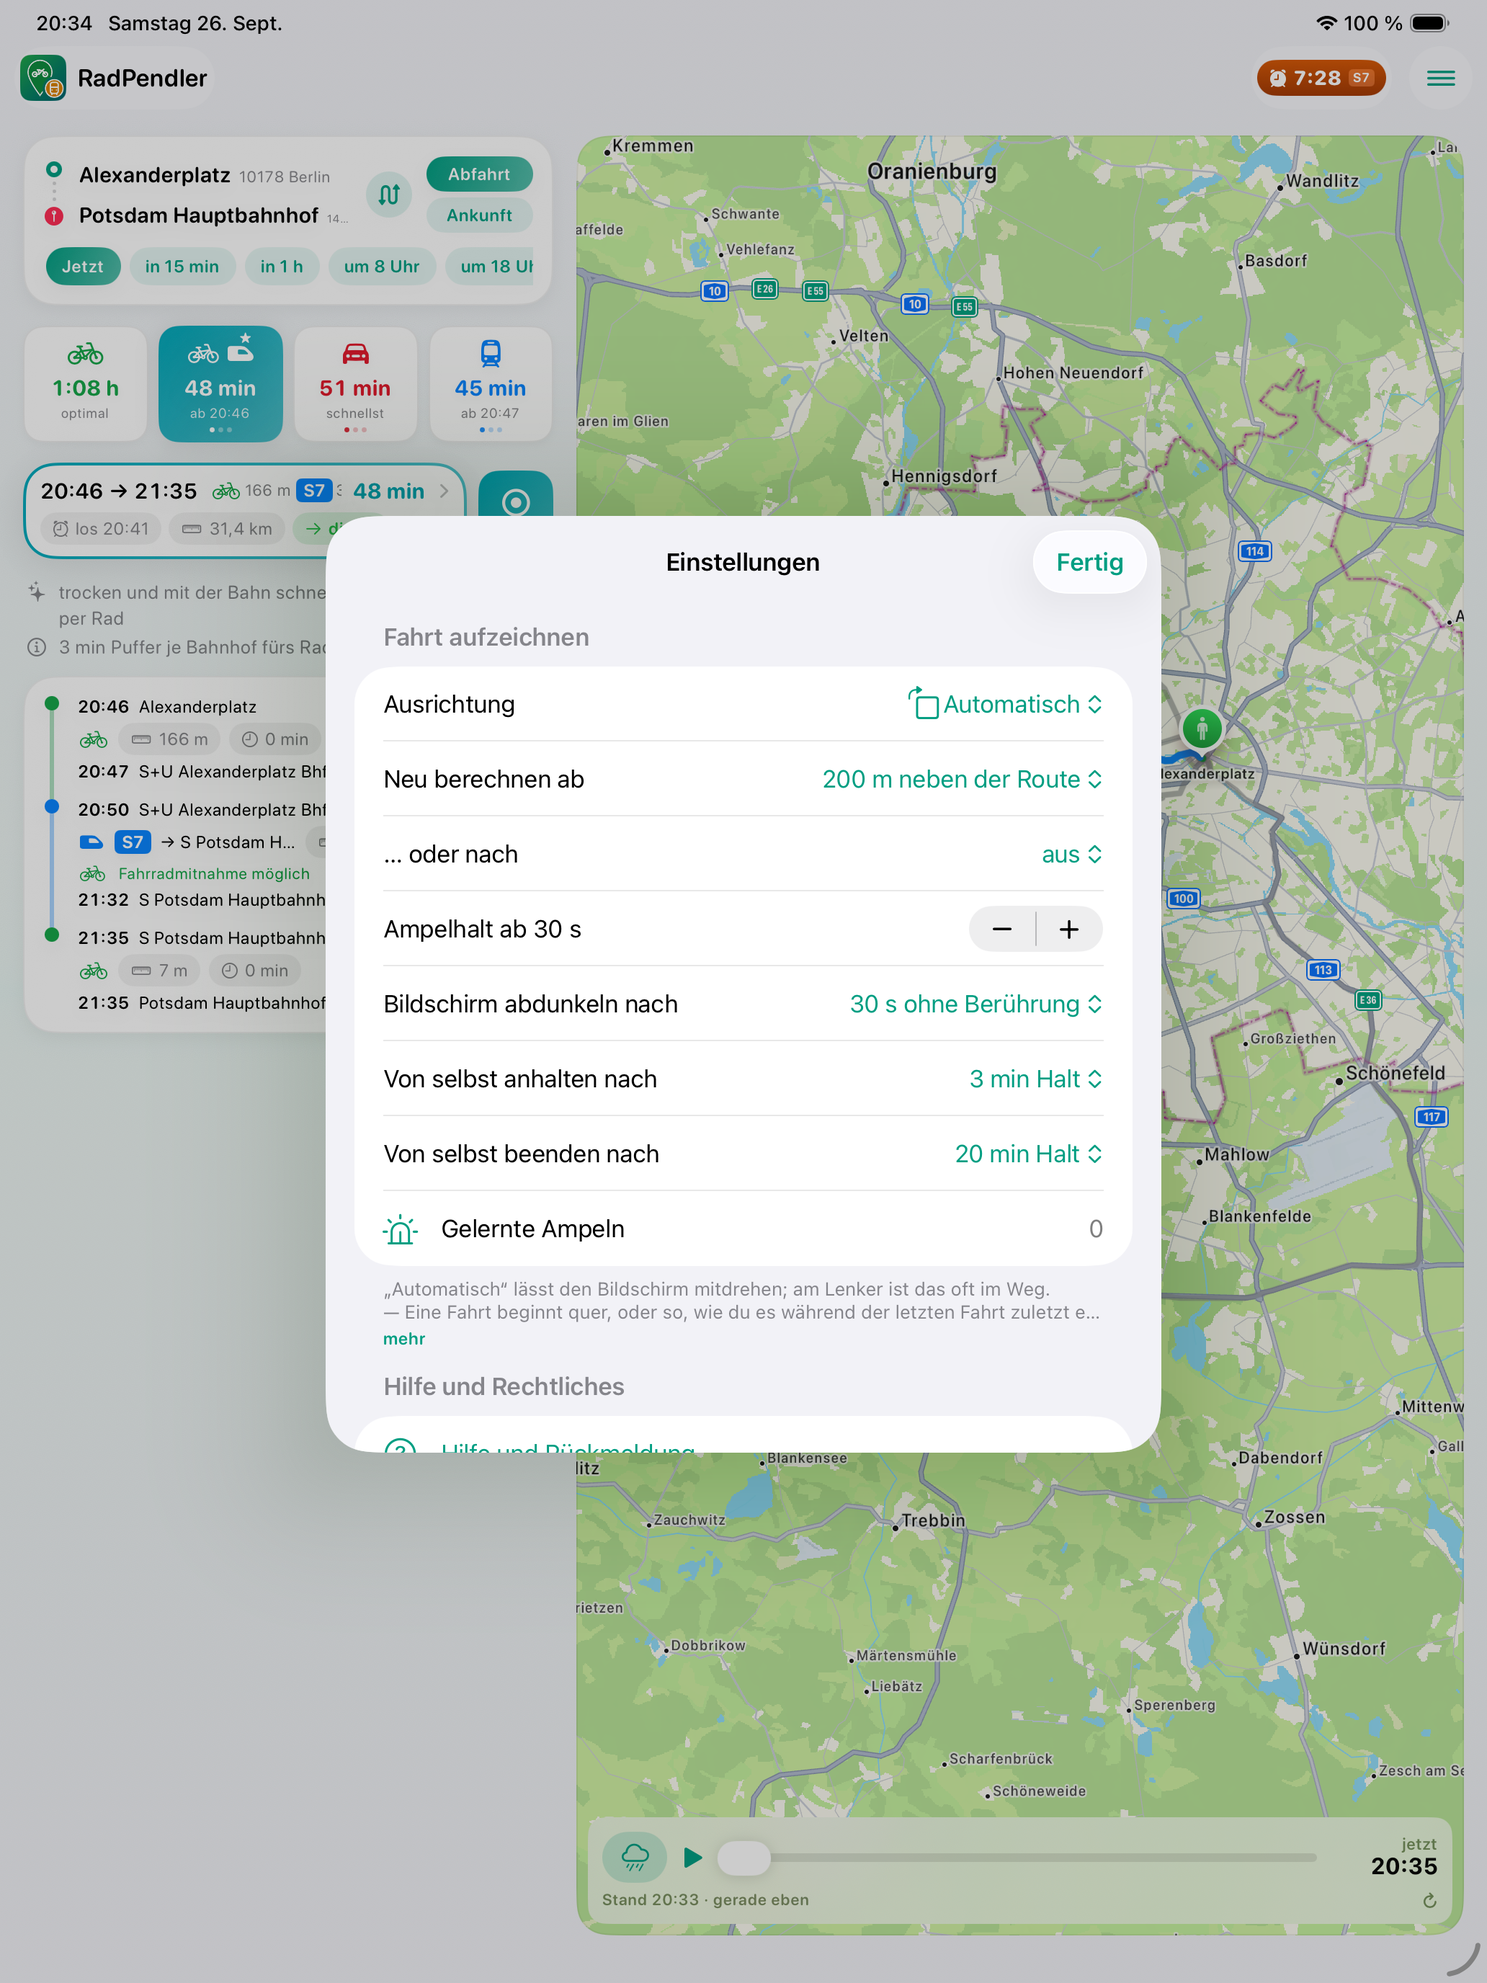
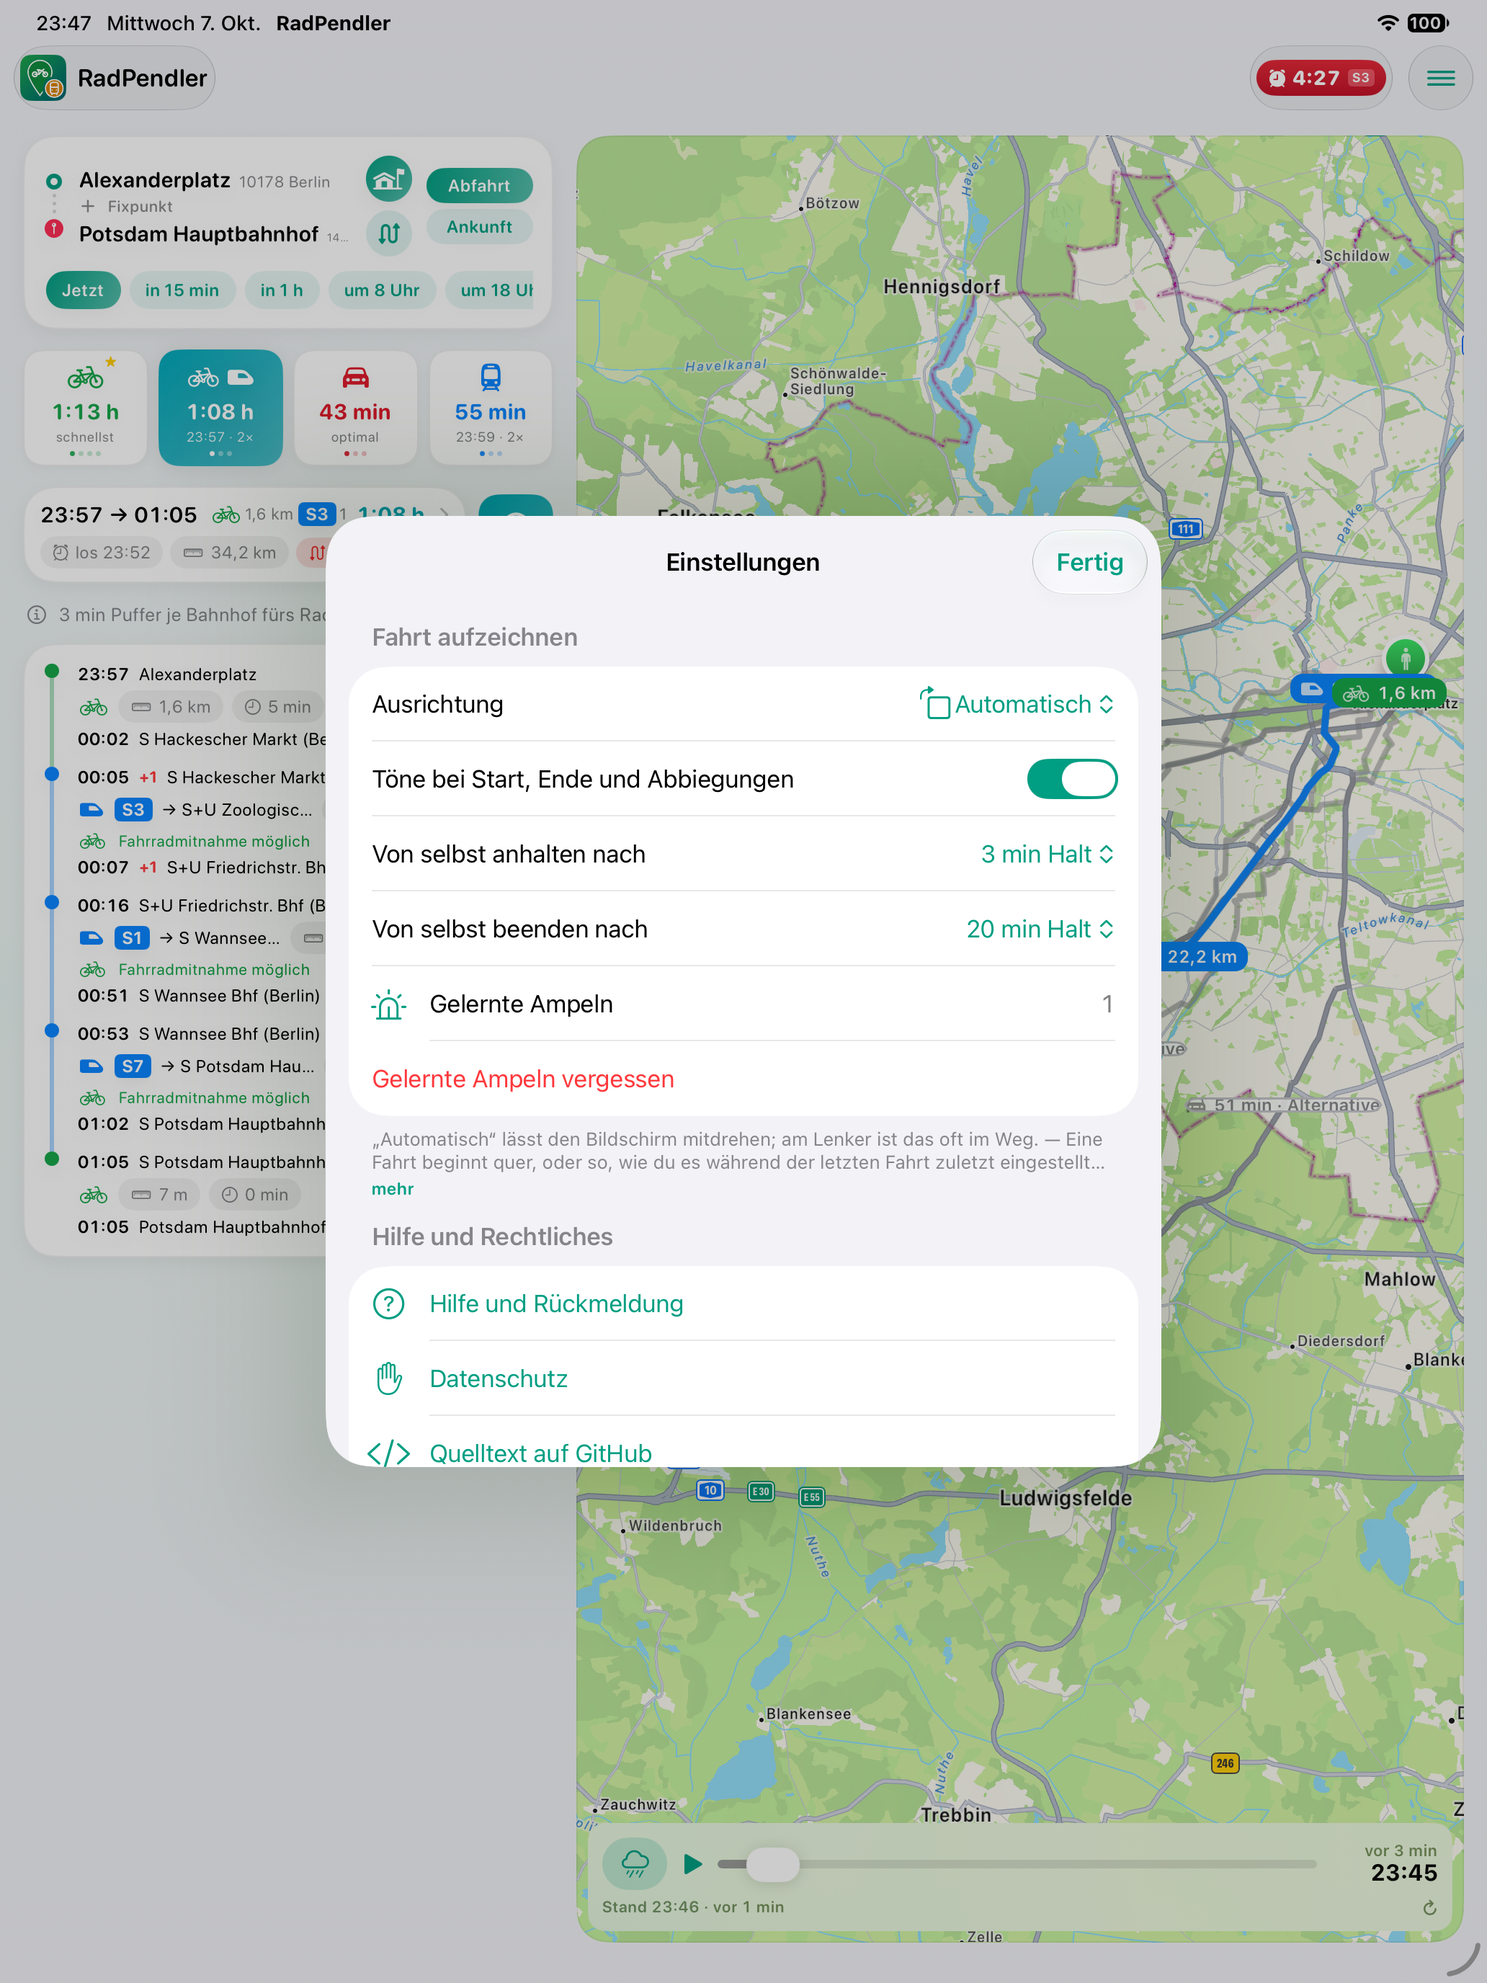
Store: Was ist neu für 1.17 (DE+EN), Beschreibung, Screenshots iPhone und iPad neu
Vier Radlinien in Beschreibung und Bildern. Die Aufnahmen warten jetzt, bis
alle vier Kästen stehen, zeigen eine Linie mit Namen und fahren an der Linie
entlang, die sie aufzeichnen. Der Kasten nennt VoiceOver auch seine Unterzeile.

Claude-Session: https://claude.ai/code/session_01W7X6DqDkarXtPKmRV2Q2C8

diff --git a/RadPendlerUITests/ScreenshotTests.swift b/RadPendlerUITests/ScreenshotTests.swift
@@ -25,7 +25,15 @@ final class ScreenshotTests: XCTestCase {
 
         // The bike box: the map then draws the cycle route with its junctions.
         if tap(button: "Fahrrad:") {
-            sleep(8)
+            sleep(4)
+            // Ein Tipp auf den gewählten Kasten schaltet zur nächsten Linie —
+            // und das kann eine „Alternative" sein, ein Weg ohne Rolle. Ins
+            // Schaufenster gehört eine mit Namen: weiterschalten, bis eine dasteht.
+            for _ in 0..<4 where bikeBoxShows("Alternative") {
+                tap(button: "Fahrrad:")
+                sleep(2)
+            }
+            sleep(6)
             keep("rad")
         }
 
@@ -94,7 +102,15 @@ final class ScreenshotTests: XCTestCase {
         // Die reine Radfahrt, nicht Rad + Bahn: sonst steht neben dem
         // gefahrenen Schnitt der Schnitt einer Fahrt, in der ein Zug sitzt —
         // neununddreißig Kilometer in der Stunde, auf einem Fahrrad.
-        if tap(button: "Fahrrad:") { sleep(6) }
+        //
+        // Lang drücken springt auf die erste Linie des Kastens zurück — die
+        // mit der frühesten Ankunft. An ihr entlang läuft das Ortungsskript
+        // (`appstore/metadata.md`, „Neu aufnehmen"); jede andere läge nach
+        // sechzig Metern daneben, und quer über dem Bild stünde ein rotes
+        // „151 m neben der Route".
+        if tap(button: "Fahrrad:") { sleep(3) }
+        let box = app.buttons.matching(NSPredicate(format: "label BEGINSWITH %@", "Fahrrad:")).firstMatch
+        if box.exists { box.press(forDuration: 1.2); sleep(5) }
         let start = app.buttons["Fahrt aufzeichnen"]
         guard start.waitForExistence(timeout: 15), start.isHittable else { return }
         start.tap()
@@ -102,7 +118,11 @@ final class ScreenshotTests: XCTestCase {
         // und lang genug, dass die App eine Abweichung vom Weg, die nur dem
         // gerade laufenden Ortungsskript geschuldet ist, selbst wieder
         // eingefangen hat.
-        sleep(80)
+        sleep(70)
+        // Steht das rote Band trotzdem da, plant die App gleich neu — darauf
+        // warten, statt es zu fotografieren.
+        let offRoute = app.staticTexts.matching(NSPredicate(format: "label CONTAINS %@", "neben der Route")).firstMatch
+        for _ in 0..<12 where offRoute.exists { sleep(10) }
         keep("fahrtmodus")
         guard app.buttons["Fahrt beenden"].waitForExistence(timeout: 5) else { return }
         app.buttons["Fahrt beenden"].tap()
@@ -118,7 +138,12 @@ final class ScreenshotTests: XCTestCase {
     private func waitForPlan() {
         let chip = app.staticTexts.matching(NSPredicate(format: "label BEGINSWITH %@", "los ")).firstMatch
         _ = chip.waitForExistence(timeout: 180)
-        sleep(6)
+        // Der Chip steht da, sobald das erste Verkehrsmittel geplant ist; die
+        // anderen Kästen zeigen dann noch „sucht …". Mit vier Radlinien dauert
+        // das länger als früher — die Hauptseite soll vollständig sein.
+        let searching = app.staticTexts.matching(NSPredicate(format: "label CONTAINS %@", "sucht")).firstMatch
+        for _ in 0..<24 where searching.exists { sleep(5) }
+        sleep(8)
     }
 
     @discardableResult
@@ -127,6 +152,11 @@ final class ScreenshotTests: XCTestCase {
         guard b.waitForExistence(timeout: 10), b.isHittable else { return false }
         b.tap()
         return true
+    }
+
+    private func bikeBoxShows(_ word: String) -> Bool {
+        let box = app.buttons.matching(NSPredicate(format: "label BEGINSWITH %@", "Fahrrad:")).firstMatch
+        return box.exists && ((box.value as? String) ?? "").contains(word)
     }
 
     private func keep(_ name: String) {

diff --git a/RadPendlerTests/BikeLiveTests.swift b/RadPendlerTests/BikeLiveTests.swift
@@ -5,14 +5,14 @@ import XCTest
 /// Fragt BRouter, Apple und Overpass wirklich. Aus, solange `BIKE_LIVE=1`
 /// nicht gesetzt ist:
 ///
-///     BIKE_LIVE=1 ./dev test
+///     TEST_RUNNER_BIKE_LIVE=1 ./dev test   (xcodebuild reicht nur Variablen mit diesem Vorsatz durch)
 final class BikeLiveTests: XCTestCase {
     func testLiveBikeVariants() async throws {
         try XCTSkipUnless(ProcessInfo.processInfo.environment["BIKE_LIVE"] == "1", "set BIKE_LIVE=1")
-        let from = Place(name: "Start", latitude: 52.4213, longitude: 13.1794)
-        let to = Place(name: "Ziel", latitude: 52.5210, longitude: 13.4130)
-        var s = PlanSettings()
-        s.bikeOptions = 3
+        // Dieselbe Strecke wie die Store-Aufnahmen: Alexanderplatz → Potsdam Hbf.
+        let from = Place(name: "Start", latitude: 52.5210, longitude: 13.4130)
+        let to = Place(name: "Ziel", latitude: 52.3914, longitude: 13.0672)
+        let s = PlanSettings()
         let req = PlanRequest(origin: from, destination: to, target: .departAfter(.now), settings: s)
         let options = try await TripPlanner().bikeOptions(req)
         for o in options {
@@ -20,7 +20,8 @@ final class BikeLiveTests: XCTestCase {
             print("LIVE bike:", o.bikeRoute?.source.label ?? "?", o.bikeRoute?.variants.map(\.rawValue) ?? [],
                   "\(Int(o.totalDistance)) m", "\(Int(o.duration / 60)) min",
                   "Ampeln \(st?.signals ?? -1)", "Querungen \(st?.crossings.count ?? -1)",
-                  "Hauptstr \(Int(st?.mainRoadMeters ?? -1)) m", o.note ?? "")
+                  "Hauptstr \(Int(st?.mainRoadMeters ?? -1)) m", o.note ?? "",
+                  "Start:", o.legs.first?.coordinates.prefix(160).map { String(format: "%.6f,%.6f", $0.latitude, $0.longitude) }.joined(separator: " ") ?? "")
         }
         XCTAssertGreaterThan(options.count, 1)
     }

diff --git a/RadPendler/Views/ModeStrip.swift b/RadPendler/Views/ModeStrip.swift
@@ -83,6 +83,9 @@ struct ModeStrip: View {
             UIImpactFeedbackGenerator(style: .rigid).impactOccurred()
         })
         .accessibilityLabel("\(mode.title): \(option.map { Fmt.duration($0.duration) } ?? "keine Verbindung")")
+        // Was unter der Zeit steht — „optimal", „ab 23:18 · 2×" —, auch für
+        // VoiceOver: bisher las es nur das Verkehrsmittel und die Dauer vor.
+        .accessibilityValue(caption(mode, option))
         .accessibilityHint(count > 1 ? L("Nochmal tippen für die nächste von %d Möglichkeiten, lang drücken für die beste", count) : "")
     }
 

diff --git a/appstore/metadata.md b/appstore/metadata.md
@@ -10,7 +10,26 @@ Fassung von Name, Untertitel, Keywords und Beschreibung steht am Ende und
 gehört in die Lokalisierung **Englisch (USA)**, damit die Seite in Stores
 außerhalb Deutschlands nicht leer aussieht.
 
-## Einreichungs-Checkliste (1.8.1, Build 45 — die einzureichende Fassung)
+## Einreichungs-Checkliste (1.17, Build 57 — die einzureichende Fassung)
+
+Was seit der 1.8.1-Liste dazugekommen ist; alles andere gilt wie dort.
+
+1. **Build 1.17 (57)** auswählen — liegt seit dem 07.10.2026 in TestFlight. Im Store steht 1.13.
+2. **Screenshots neu aufgenommen am 07.10.2026 mit Build 57** (iPhone und iPad): unter dem
+   Rad-Kasten stehen vier Wege, und in den Vorlieben vier Radrouten. Die Uhr-Bilder sind
+   unverändert.
+3. **Was ist neu** — Text unten, **für 1.17**, deutsch und englisch.
+4. **Beschreibung** deutsch und englisch: die Zeile „Fahrrad in vier Linien“ ersetzt die
+   Aufzählung mit „wenig Autos“ und „wenig Halts“ — in beide Sprachen neu einfügen.
+5. **Hinweis an die Prüfung**: der englische Text zu allen drei Hintergrundmoden aus der
+   1.8.1-Liste (Punkt 4, „Seit 07.10.2026 ausführlicher“).
+6. **Datenschutzseite vor dem Einreichen veröffentlichen**: `appstore/pages/radpendler-privacy/`
+   nach `deepskyplan.github.io/radpendler-privacy`. Die Fassung im Repository nennt die
+   Adressen an externe Dienste im ersten Absatz und beschreibt die Aufzeichnung.
+7. App-Datenschutz-Fragebogen unverändert. Übertragen wird nichts Neues: die Profile für
+   „ruhig“ und „optimal“ gehen als Profiltext an brouter.de, ohne Koordinaten oder Kennung.
+
+## Einreichungs-Checkliste (1.8.1, Build 45)
 
 Was seit 1.5 dazugekommen ist, steht in **fett**; alles andere gilt wie in der
 1.5-Liste darunter.
@@ -181,9 +200,10 @@ Gebaut für einen echten Arbeitsweg — und sie sagt, was sie nicht weiß, statt
 zu raten.
 
 DIE VIER WEGE
-• Fahrrad in Varianten: schnellst, kürzest, optimal, wenig Autos, wenig Halts. Aus
-  mehreren BRouter-Profilen und aus Apple Karten, bewertet nach Ampeln und
-  Hauptstraßen
+• Fahrrad in vier Linien: schnellst, kürzest, ruhig — über Fahrradstraßen und
+  Nebenstraßen — und optimal, die Mischung aus allen dreien. Aus mehreren
+  BRouter-Profilen, bewertet nach Ampeln, Hauptstraßen und Fahrradstraßen;
+  Kopfsteinpflaster meidet jede von ihnen
 • Rad + Bahn: die App sucht sich die Bahnhöfe selbst, radelt hin, fährt mit und
   radelt weiter
 • Auto: optimal, schnellst, kürzest oder wenig Ampeln — jede Linie, die
@@ -255,6 +275,60 @@ BRouter und Overpass auf OpenStreetMap-Daten (© OpenStreetMap-Mitwirkende,
 ODbL), Deutscher Wetterdienst und Open-Meteo.
 
 Alle Zeiten ohne Gewähr.
+```
+
+## Was ist neu (1.17)
+
+Für das Feld „Neue Funktionen“ der Version 1.17 (DE 1326, EN 1136 Zeichen, max
+4000). Deckt alles seit 1.13 ab — das ist die Fassung, die laut App Store Connect im
+Store steht (abgefragt am 07.10.2026); 1.14, 1.15 und 1.16 waren nur TestFlight.
+
+```
+• Vier Radlinien, jede mit einer klaren Frage: schnellst, kürzest, ruhig und
+  optimal. „ruhig“ führt über Fahrradstraßen und Nebenstraßen, weg von den
+  Autos; „optimal“ ist die Mischung aus allen dreien. Unter dem Rad-Kasten
+  stehen jetzt vier Wege statt drei. „wenig Autos“ heißt nun „ruhig“, „wenig
+  Halts“ entfällt.
+• Kopfsteinpflaster meidet jede Radroute, immer. Den Schalter dafür gibt es
+  nicht mehr.
+• Wie viel Umweg ist dir die Ruhe wert? Unter Einstellungen → Verkehrsmittel
+  legst du mit „Für Ruhe höchstens“ fest, ob „optimal“ 5, 10 oder 15 % länger
+  dauern darf als die schnellste Linie, wenn sie dafür von der Hauptstraße
+  wegführt.
+• Auto: Die App lernt aus deinen aufgezeichneten Autofahrten, wie du im
+  Vergleich zu Apple Karten fährst, und rechnet die Fahrzeit damit — auf jeder
+  Strecke, nicht nur auf dem Arbeitsweg.
+• Ton beim Anhalten und Weiterfahren: zwei kurze Töne abwärts, wenn die
+  Aufzeichnung pausiert, zwei aufwärts, wenn sie weiterläuft.
+• Behoben: Auf der Autobahn fehlten Strecke und Linie, sobald du schneller als
+  108 km/h warst.
+• Behoben: Nach einer Fahrt, die sich selbst beendet hatte, zählten die
+  folgenden Fahrten keine Halte und keine Ampeln.
+• Behoben: Die Fahrtenliste sagt jetzt auch dann Bescheid, wenn iCloud die
+  Linie einer einzelnen Fahrt nicht angenommen hat.
+```
+
+English:
+
+```
+• Four bike lines, each answering one question: fastest, shortest, quiet and
+  balanced. “quiet” runs along cycle streets and side streets, away from the
+  cars; “balanced” is the mix of all three. The bike box now offers four ways
+  instead of three. “few cars” is now called “quiet”; “few stops” is gone.
+• Every bike route avoids cobblestones, always. The switch for it is gone.
+• How much of a detour is quiet worth to you? Under Settings → Modes,
+  “For quiet, at most” lets “balanced” take 5, 10 or 15 % longer than the
+  fastest line when that keeps it off the main road.
+• Car: the app learns from your recorded car trips how you drive compared to
+  Apple Maps and uses that for the travel time — on any route, not only your
+  commute.
+• A sound when recording pauses and resumes: two short tones down when it
+  pauses, two up when it continues.
+• Fixed: on the motorway, distance and track went missing above 108 km/h.
+• Fixed: after a ride that had ended by itself, the following rides counted no
+  stops and no traffic lights.
+• Fixed: the ride list now also tells you when iCloud did not accept the track
+  of a single ride.
 ```
 
 ## Was ist neu (1.10.2)
@@ -568,8 +642,8 @@ beiden Schächte annimmt, sind kurz; alles andere wird beim Hochladen abgelehnt:
 Ein 6,9″-Telefon (iPhone 17 Pro Max) nimmt mit 1320 × 2868 auf, und das steht
 **nicht** auf der Liste — der 6,5″-Satz muss aus einem 6,5″-Simulator kommen.
 
-Reihenfolge und der Bildtext, den jedes Bild tragen soll (Stand 26.09.2026,
-aufgenommen mit Build 40):
+Reihenfolge und der Bildtext, den jedes Bild tragen soll (Stand 07.10.2026,
+aufgenommen mit 1.17, Build 57):
 
 **iPhone** — acht Bilder
 
@@ -608,7 +682,9 @@ Die Aufnahmen macht `RadPendlerUITests/ScreenshotTests` — ein eigenes Schema
 App und hängt jedes Bild ans Testergebnis.
 
 ```sh
-# Adressen setzen, ohne je eine echte zu benutzen (die App startet leer):
+# Adressen setzen, ohne je eine echte zu benutzen (die App startet leer).
+# Erst die App installieren (build-for-testing, dann `simctl install`), dann
+# die Werte setzen, dann `test-without-building` — sonst liest die App sie nicht.
 hex() { python3 -c "import sys,json;print(json.dumps(json.loads(sys.argv[1]),ensure_ascii=False).encode().hex())" "$1"; }
 UDID=…   # 6,5″-Telefon oder iPad Pro 13″
 xcrun simctl spawn $UDID defaults write de.keese.radpendler origin -data \
@@ -621,11 +697,20 @@ xcrun simctl spawn $UDID defaults write de.keese.radpendler rideOrientationLock 
 xcrun simctl privacy $UDID grant location-always de.keese.radpendler
 
 # Die Aufnahme des Fahrtmodus braucht **Bewegung**, sonst stehen dort Nullen.
-# Die Punkte sind die ersten Meter der Radroute ab Alexanderplatz (BRouter);
-# 6 m/s sind 21,6 km/h. In zsh als Array, sonst wird daraus ein Argument.
-WP=(52.521027,13.412965 52.521011,13.412359 52.520720,13.412771 52.520675,13.412163
-    52.520097,13.411077 52.519663,13.410140 52.519404,13.409581 52.519052,13.408822
-    52.518829,13.408110 52.518590,13.407613 52.518364,13.407084 52.518039,13.406290)
+# Die Punkte sind die ersten anderthalb Kilometer der Linie, die der Test
+# aufzeichnet: die **erste** des Rad-Kastens (Langdruck), also die mit der
+# frühesten Ankunft — am 07.10.2026 die kürzeste. Die vier Linien trennen sich
+# nach 57 m; läuft das Skript an einer anderen entlang, steht ein rotes
+# „… neben der Route" quer über dem Bild. Nach einer Änderung an den Profilen
+# neu holen: `TEST_RUNNER_BIKE_LIVE=1` und `BikeLiveTests` drucken den Anfang
+# jeder Linie. 6 m/s sind 21,6 km/h. In zsh als Array, sonst wird daraus ein Argument.
+WP=(52.521027,13.412965 52.521108,13.412526 52.521076,13.412018 52.521101,13.411436
+    52.520846,13.411566 52.520166,13.410798 52.519841,13.410121 52.519567,13.409550
+    52.519224,13.408836 52.519027,13.408223 52.518693,13.407425 52.518458,13.406948
+    52.518204,13.406692 52.517692,13.405480 52.517319,13.404595 52.516988,13.403797
+    52.516733,13.403178 52.516530,13.402679 52.516298,13.402026 52.516070,13.401468
+    52.516217,13.400939 52.515984,13.400120 52.515800,13.399593 52.515618,13.398845
+    52.515474,13.398208 52.515324,13.397421 52.515241,13.396833 52.515170,13.395714)
 xcrun simctl location $UDID start --speed=6 --interval=1 $WP &
 
 xcodebuild test -project RadPendler.xcodeproj -scheme RadPendlerShots \
@@ -775,9 +860,10 @@ addresses, works the cycling time out from your rolling speed plus a wait per
 signalised junction — and says what it does not know instead of guessing.
 
 THE FOUR WAYS
-• Bike, in variants: fastest, shortest, balanced, few cars, few stops. From several BRouter
-  profiles and from Apple Maps, scored on traffic lights, main roads crossed
-  and metres spent alongside main roads
+• Bike, in four lines: fastest, shortest, quiet — along cycle streets and side
+  streets — and balanced, the mix of all three. From several BRouter profiles,
+  scored on traffic lights, main roads and cycle streets; every one of them
+  avoids cobblestones
 • Bike + train: the app finds the stations itself, rides there, takes the
   train, rides on
 • Car: best, fastest, shortest or fewest lights — every line Apple Maps
